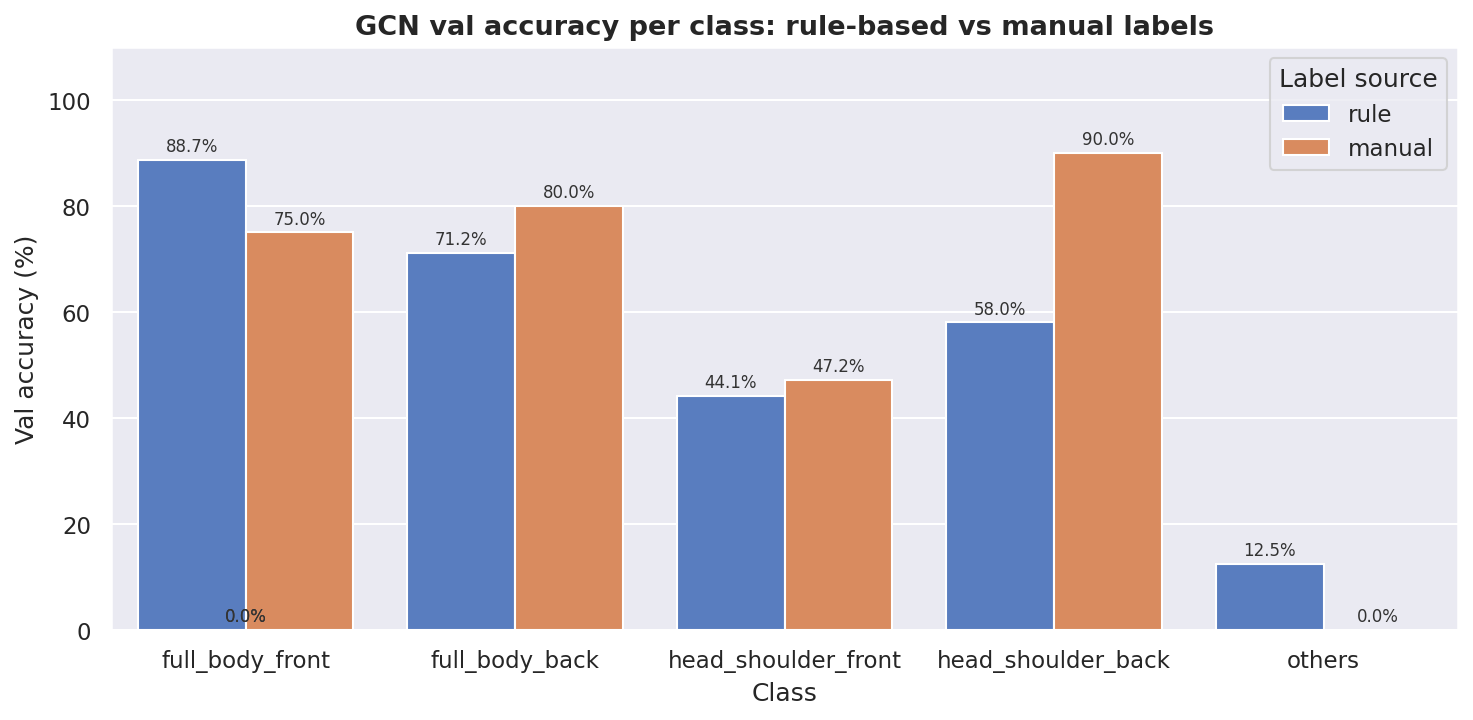
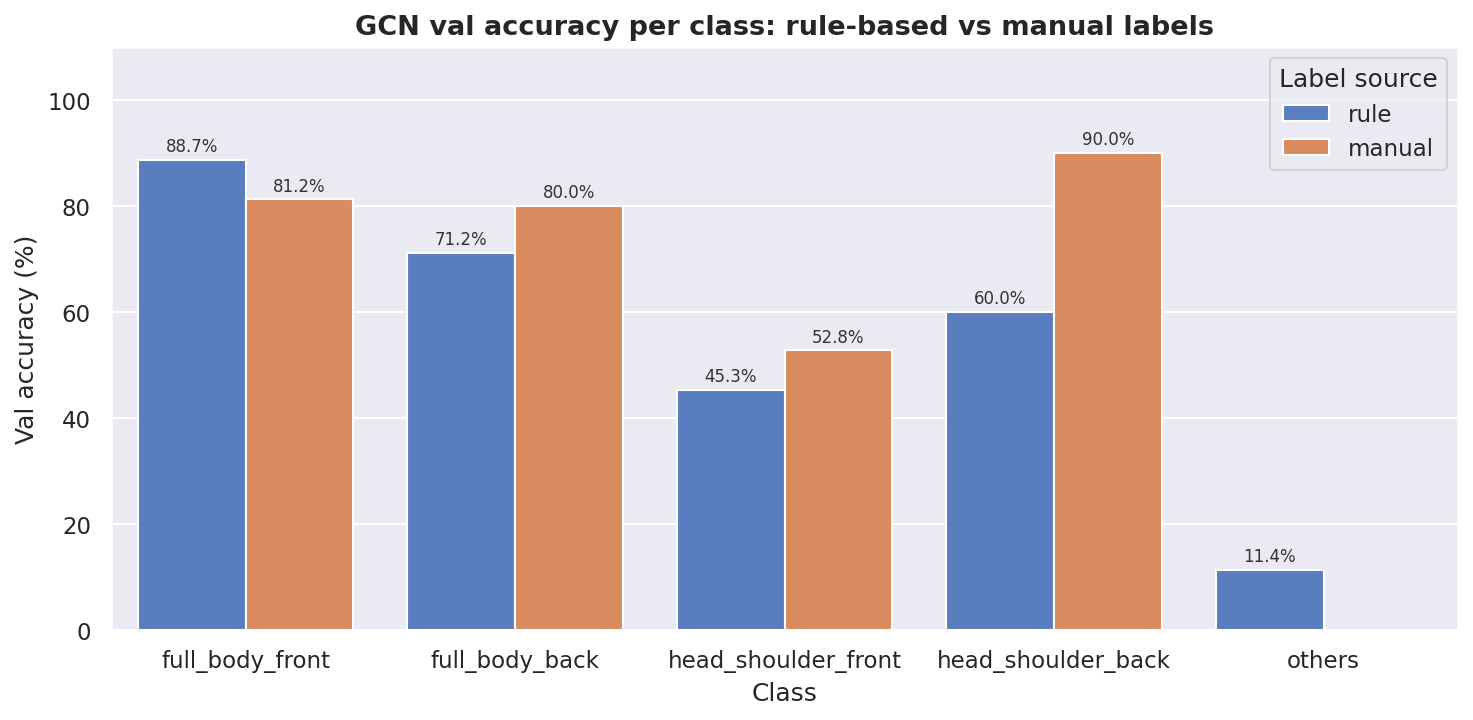
better gcn ablation results (same as prev)

diff --git a/src/gcn.py b/src/gcn.py
@@ -1060,10 +1060,13 @@ def plot_annotation_ablation(
         ax=ax,
     )
 
-    # Annotate bars with value
-    for bar in ax.patches:
-        h = bar.get_height()
-        if not (h != h):   # skip NaN bars
+    # Annotate bars with value.
+    # Use ax.containers (not ax.patches) to avoid labelling seaborn legend patches.
+    for container in ax.containers:
+        for bar in container:
+            h = bar.get_height()
+            if h != h or h == 0:   # skip NaN and zero-height bars
+                continue
             ax.text(
                 bar.get_x() + bar.get_width() / 2,
                 h + 0.8,
